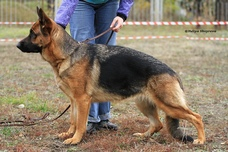
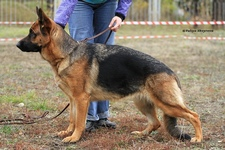
Fix invalid dimensions of preview photo files

diff --git a/_shows/2019.htm b/_shows/2019.htm
@@ -8,10 +8,10 @@ photo: # temporary
     <p style="text-align: left"><strong>Фонте Фиделити Итан</strong>, класс рабочих собак, 1 отлично, выражено, не отпускает, КЧК!</p>
     <p style="text-align: left"><strong>Фонте Фиделити Пальмира</strong>, класс юниоров, 4 очень хорошо.</p>
     <p>
-        {% include photo.html path="2019/10194" title="Фонте Фиделити Пальмира, г. Димитровград, 19 октября 2019 г." w="101" h="152" %}
-        {% include photo.html path="2019/10195" title="Фонте Фиделити Пальмира, г. Димитровград, 19 октября 2019 г." w="228" h="152" %}
-        {% include photo.html path="2019/10193" title="Фонте Фиделити Итан, г. Димитровград, 19 октября 2019 г." w="375" h="152" %}
-        {% include photo.html path="2019/10194" title="Фонте Фиделити Итан, г. Димитровград, 19 октября 2019 г." w="375" h="152" %}
+        {% include photo.html path="2019/10194" title="Фонте Фиделити Пальмира, г. Димитровград, 19 октября 2019 г." w="225" h="152" %}
+        {% include photo.html path="2019/10195" title="Фонте Фиделити Пальмира, г. Димитровград, 19 октября 2019 г." w="100" h="152" %}
+        {% include photo.html path="2019/10193" title="Фонте Фиделити Итан, г. Димитровград, 19 октября 2019 г." w="225" h="152" %}
+        {% include photo.html path="2019/10194" title="Фонте Фиделити Итан, г. Димитровград, 19 октября 2019 г." w="225" h="152" %}
         {% include photo.html path="2019/10191" title="Фонте Фиделити Итан и Пальмира, г. Димитровград, 19 октября 2019 г." w="249" h="152" %}
         {% include photo.html path="2019/10192" title="Фонте Фиделити Итан, г. Димитровград, 19 октября 2019 г." w="142" h="152" %}
     </p>
